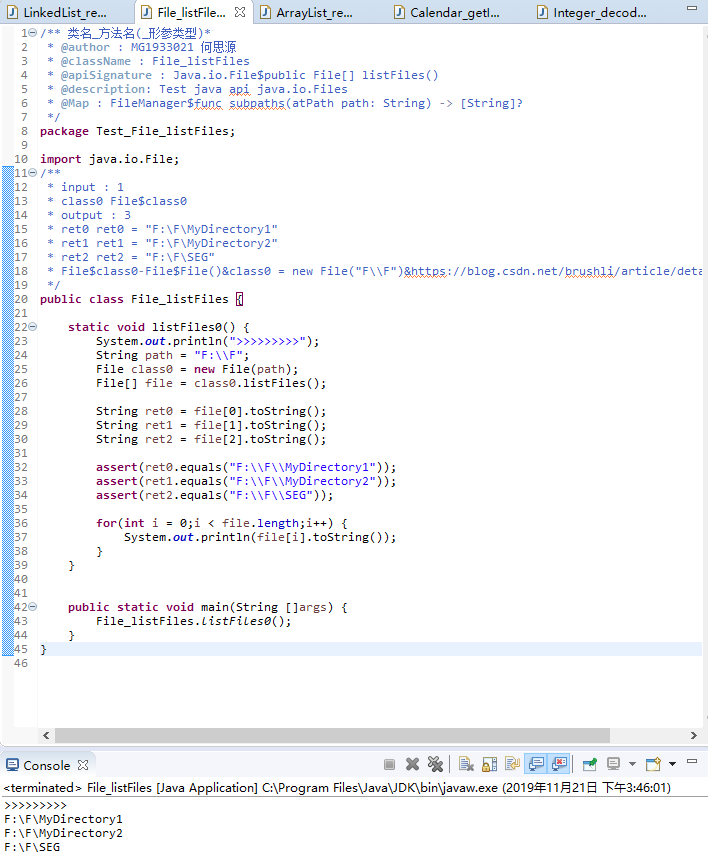
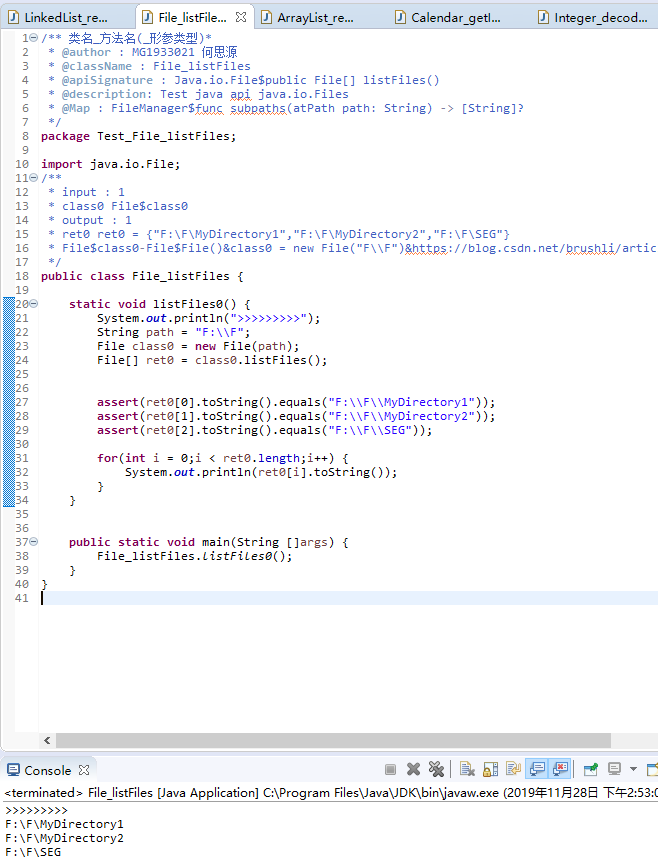
MG1933021

diff --git a/MG1933021/swift/ArraySlice_removeAll.swift b/MG1933021/swift/ArraySlice_removeAll.swift
@@ -1,4 +1,4 @@
-    /**类名_方法名(_形参类型)*
+/**类名_方法名(_形参类型)*
 * @author :MG1933021 何思源
 * @className: ArraySlice_removeAll
 * @apiSignature: ArraySlice$func removeAll(where shouldBeRemoved: (Element) throws -> Bool) rethrows
@@ -10,7 +10,7 @@ import Foundation
 
 class ArraySlice_removeAll{
 /**
-*input:1
+*input:3
 *class0 class0 = [0,1,2,3,4]
 *c c = [0,1,2]
 *where Function$where={c.contains($0)}
@@ -19,7 +19,7 @@ class ArraySlice_removeAll{
 */
     static func removeAll0(){
    	 print(">>>>>>>>>>>>")
-   	 var class0:ArraySlice = [0,1,2,3,4]
+	 var class0:ArraySlice = [0,1,2,3,4]
   	 let c = [0,1,2]
    	 class0.removeAll (where :{c.contains($0)})
    	 let ret0 = class0.description

diff --git a/MG1933021/swift/ArraySlice_removeFirst.swift b/MG1933021/swift/ArraySlice_removeFirst.swift
@@ -9,17 +9,13 @@ import Foundation
 class ArraySlice_removeFirst{
 /**
 *input : 1
-*class0 ArraySilce$class0
+*class0 class0 = [0,1,2,3,4]
 *output : 1
 *ret0 ret0 = 0
-*ArraySlice$class0-ArraySlice$ArraySlice[int]//ArraySlice用到Array,Array直接声明,怎么写？
-*&class0 = arr[0...4]
-*&https://www.jianshu.com/p/e5851ab577a7
 */
 	static func removeFirst0(){
 		print(">>>>>>>>>")
-		let arr = [0,1,2,3,4,5]
-		var class0 = arr[0...4]
+		var class0:ArraySlice = [0,1,2,3,4]
 		let ret0 = class0.removeFirst()
 		assert(ret0 == 0)
 		print(ret0)

diff --git a/MG1933021/swift/fileManager_subpaths.swift b/MG1933021/swift/fileManager_subpaths.swift
@@ -13,7 +13,7 @@ class FileManager_subPaths{
      *input:1
      *class0 fileManager$class0
      *output:1
-     *ret0 ret0:Optional([".DS_Store", "MyDirectory2", "MyDirectory1", "SEG", "SEG/test.txt"])
+     *ret0 ret0 = Optional([".DS_Store", "MyDirectory2", "MyDirectory1", "SEG", "SEG/test.txt"])
      *fileManger&class0-fileManager$default
      *&class0 = FileManager.default
      *&https://developer.apple.com/documentation/foundation/

diff --git a/MG1933021/java/File_listFiles.java b/MG1933021/java/File_listFiles.java
@@ -11,10 +11,8 @@ import java.io.File;
 /**
  * input : 1
  * class0 File$class0 
- * output : 3 
- * ret0 ret0 = "F:\F\MyDirectory1"
- * ret1 ret1 = "F:\F\MyDirectory2"
- * ret2 ret2 = "F:\F\SEG"
+ * output : 1
+ * ret0 ret0 = {"F:\F\MyDirectory1","F:\F\MyDirectory2","F:\F\SEG"}
  * File$class0-File$File()&class0 = new File("F\\F")&https://blog.csdn.net/brushli/article/details/12356695
  */
 public class File_listFiles {
@@ -23,18 +21,15 @@ public class File_listFiles {
 		System.out.println(">>>>>>>>>");
 		String path = "F:\\F";
 		File class0 = new File(path);
-		File[] file = class0.listFiles();
+		File[] ret0 = class0.listFiles();
 		
-		String ret0 = file[0].toString();
-		String ret1 = file[1].toString();
-		String ret2 = file[2].toString();
 		
-		assert(ret0.equals("F:\\F\\MyDirectory1"));
-		assert(ret1.equals("F:\\F\\MyDirectory2"));
-		assert(ret2.equals("F:\\F\\SEG"));
+		assert(ret0[0].toString().equals("F:\\F\\MyDirectory1"));
+		assert(ret0[1].toString().equals("F:\\F\\MyDirectory2"));
+		assert(ret0[2].toString().equals("F:\\F\\SEG"));
 
-		for(int i = 0;i < file.length;i++) {
-			System.out.println(file[i].toString());
+		for(int i = 0;i < ret0.length;i++) {
+			System.out.println(ret0[i].toString());
 		}
 	}
 	
@@ -42,4 +37,4 @@ public class File_listFiles {
 	public static void main(String []args) {
 		File_listFiles.listFiles0();
 	}
-}
+} 

diff --git a/MG1933021/java/LinkedList_removeFirst.java b/MG1933021/java/LinkedList_removeFirst.java
@@ -16,9 +16,7 @@ import java.util.LinkedList;
  * class0 LinkedList$class0 
  * output : 1
  * ret0 ret0 = 0
- * LinkedList$class0-LinkedList$LinkeList<>()
- * &class0 = new LinkedList<Integer>()
- * &https://docs.oracle.com/javase/7/docs/api/java/util/LinkedList.html
+ * LinkedList$class0-LinkedList$LinkeList<>()&class0 = new LinkedList<Integer>() &https://docs.oracle.com/javase/7/docs/api/java/util/LinkedList.html
  */
 public class LinkedList_removeFirst {
 	static void removeFirst0() {
